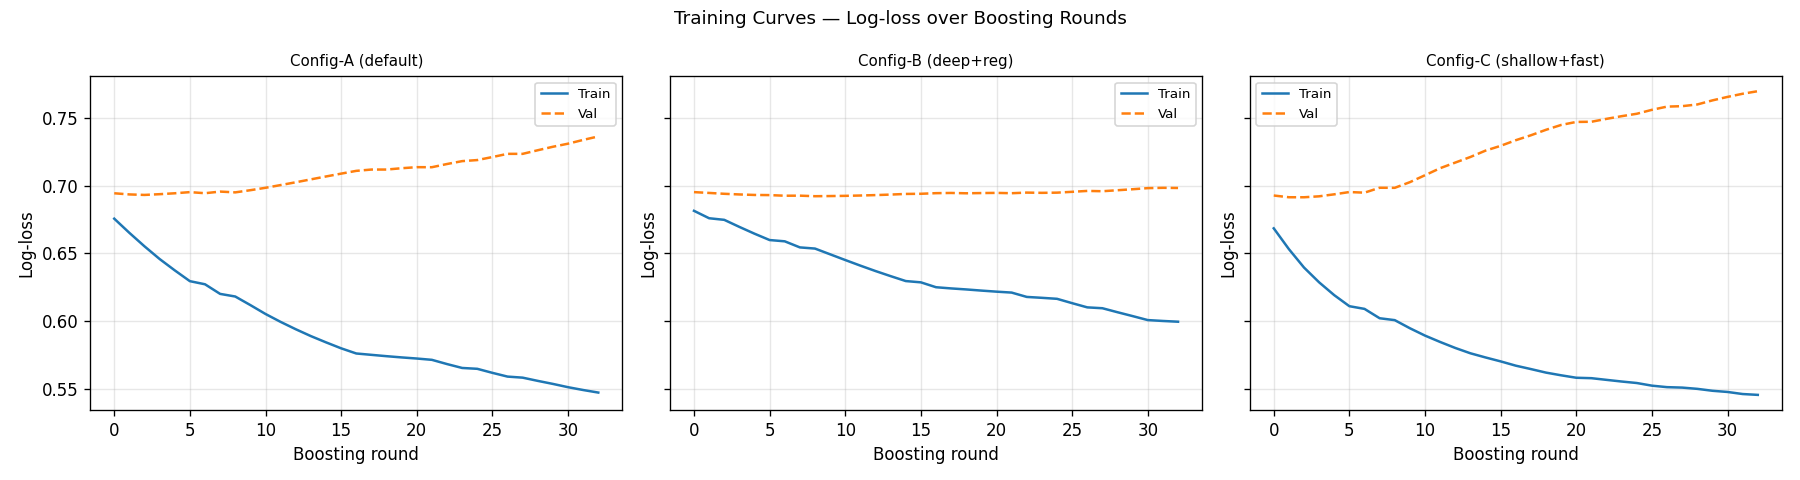
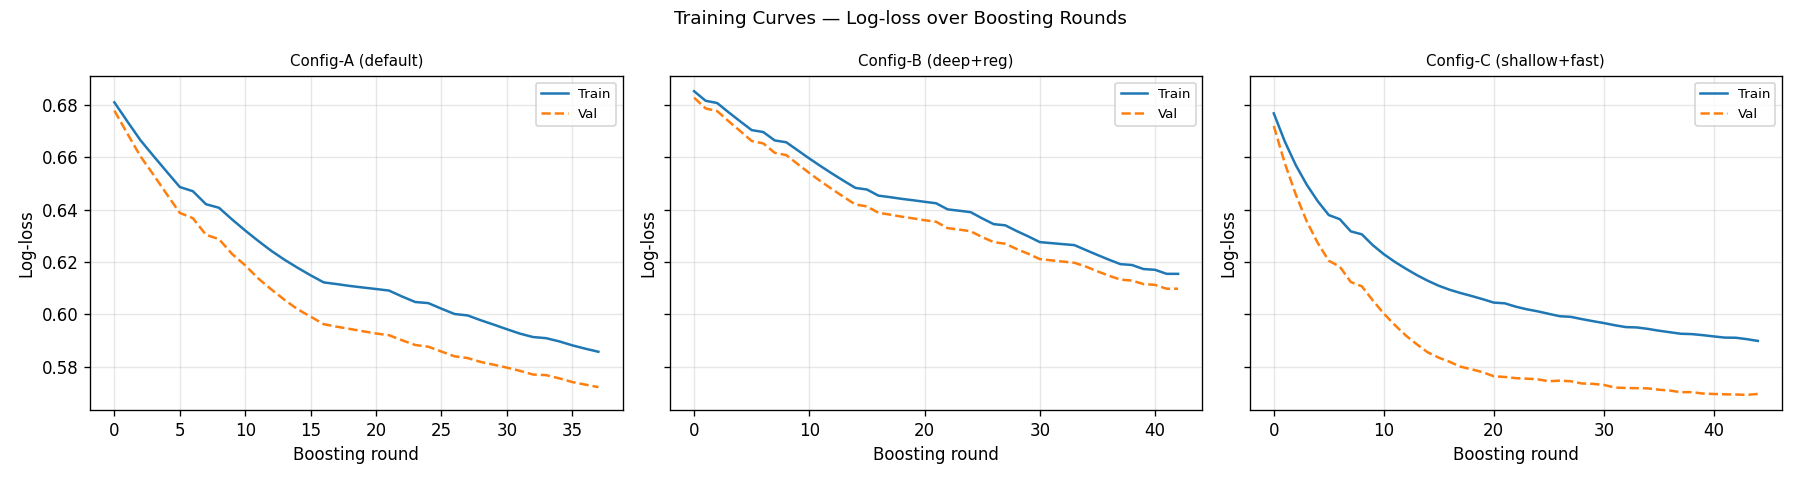
use Cross Validation instead

diff --git a/src/models.py b/src/models.py
@@ -3,6 +3,8 @@ import numpy as np
 import lightgbm as lgb
 import xgboost as xgb
 from sklearn.metrics import log_loss, roc_auc_score, brier_score_loss
+from sklearn.model_selection import GroupKFold
+from sklearn.preprocessing import StandardScaler
 from data_visualization import _plot_training_curves
 
 
@@ -96,6 +98,123 @@ def hyperparam_search(X_train, y_train, X_val, y_val, feature_cols):
     return best_model, results, best_name
 
 
+def hyperparam_search_cv(df_dev, feature_cols, n_splits=5, seed=42):
+    '''HYPERPARAMETER TUNING via GroupKFold CV — robust config selection.
+
+    Splits the dev set (train+val combined) into n_splits folds grouped by
+    market_id so no market appears in both fold-train and fold-val. Each
+    config is scored by mean val log-loss across folds. Selecting by CV
+    rather than a single val split reduces the risk of tuning to one
+    particular split and gives an uncertainty estimate (±std).
+
+    Also reports the mean train/val gap per config — a direct overfitting
+    diagnostic. Larger gap ⇒ the config is memorizing the training fold.
+
+    Args:
+        df_dev:       DataFrame with market_id, label, and feature_cols
+        feature_cols: list of feature column names
+        n_splits:     number of CV folds (default 5)
+        seed:         base_params seed
+
+    Returns:
+        best_name, cv_results
+    '''
+    base_params = {
+        "objective":    "binary",
+        "metric":       ["binary_logloss", "auc"],
+        "bagging_freq": 5,
+        "verbose":      -1,
+        "seed":         seed,
+    }
+
+    groups = df_dev["market_id"].values
+    y_all  = df_dev["label"].values
+    X_raw  = df_dev[feature_cols].fillna(-999).values
+
+    kf = GroupKFold(n_splits=n_splits)
+    splits = list(kf.split(X_raw, groups=groups))
+
+    cv_results       = {}
+    first_fold_evals = {}
+
+    for name, cfg in HYPERPARAM_CONFIGS.items():
+        params      = {**base_params, **cfg}
+        fold_val_ll = []
+        fold_tr_ll  = []
+        fold_auc    = []
+        fold_brier  = []
+        fold_gap    = []
+        fold_iters  = []
+
+        for fold_idx, (tr_idx, va_idx) in enumerate(splits):
+            # Per-fold scaler — fit on fold-train only (no CV leakage)
+            scaler = StandardScaler()
+            X_tr   = scaler.fit_transform(X_raw[tr_idx])
+            X_va   = scaler.transform(X_raw[va_idx])
+            y_tr   = y_all[tr_idx]
+            y_va   = y_all[va_idx]
+
+            dtrain = lgb.Dataset(X_tr, label=y_tr, feature_name=feature_cols)
+            dval   = lgb.Dataset(X_va, label=y_va, reference=dtrain,
+                                 feature_name=feature_cols)
+
+            evals_result = {}
+            model = lgb.train(
+                params, dtrain, num_boost_round=500,
+                valid_sets=[dtrain, dval], valid_names=["train", "val"],
+                callbacks=[
+                    lgb.early_stopping(stopping_rounds=30, verbose=False),
+                    lgb.log_evaluation(period=9999),
+                    lgb.record_evaluation(evals_result),
+                ],
+            )
+
+            best_iter = model.best_iteration
+            tr_loss   = evals_result["train"]["binary_logloss"][best_iter - 1]
+            va_loss   = evals_result["val"]["binary_logloss"][best_iter - 1]
+
+            probs = model.predict(X_va)
+            fold_val_ll.append(log_loss(y_va, probs))
+            fold_tr_ll.append(tr_loss)
+            fold_auc.append(roc_auc_score(y_va, probs))
+            fold_brier.append(brier_score_loss(y_va, probs))
+            fold_gap.append(va_loss - tr_loss)
+            fold_iters.append(best_iter)
+
+            if fold_idx == 0:
+                first_fold_evals[name] = evals_result
+
+        cv_results[name] = {
+            "mean_val_loss":   float(np.mean(fold_val_ll)),
+            "std_val_loss":    float(np.std(fold_val_ll)),
+            "mean_train_loss": float(np.mean(fold_tr_ll)),
+            "mean_gap":        float(np.mean(fold_gap)),
+            "mean_auc":        float(np.mean(fold_auc)),
+            "mean_brier":      float(np.mean(fold_brier)),
+            "mean_best_iter":  float(np.mean(fold_iters)),
+            "fold_val_losses": fold_val_ll,
+        }
+
+    best_name = min(cv_results, key=lambda k: cv_results[k]["mean_val_loss"])
+
+    print(f"\n── Hyperparameter Search Results "
+          f"({n_splits}-fold GroupKFold CV) ──")
+    print(f"  {'Config':<26} {'Val LL (±std)':>16} {'Train LL':>10} "
+          f"{'Gap':>7} {'AUC':>7} {'Iters':>6}")
+    print("  " + "─" * 76)
+    for name, m in cv_results.items():
+        marker = " ◀ best" if name == best_name else ""
+        ll_str = f"{m['mean_val_loss']:.4f}±{m['std_val_loss']:.4f}"
+        print(f"  {name:<26} {ll_str:>16} {m['mean_train_loss']:>10.4f} "
+              f"{m['mean_gap']:>7.4f} {m['mean_auc']:>7.4f} "
+              f"{m['mean_best_iter']:>6.0f}{marker}")
+    print("  (Gap = val − train log-loss at best iter; "
+          "larger ⇒ more overfitting)")
+
+    _plot_training_curves(first_fold_evals)
+    return best_name, cv_results
+
+
 def train_lgbm(X_train, y_train, X_val, y_val,
                feature_cols, params_override=None):
     '''TRAIN LIGHTGBM (final model on selected features).'''
@@ -119,15 +238,22 @@ def train_lgbm(X_train, y_train, X_val, y_val,
     dval   = lgb.Dataset(X_val,   label=y_val,   reference=dtrain,
                          feature_name=feature_cols)
 
+    evals_result = {}
     model = lgb.train(
         base_params, dtrain, num_boost_round=500,
         valid_sets=[dtrain, dval], valid_names=["train", "val"],
         callbacks=[
             lgb.early_stopping(stopping_rounds=30, verbose=False),
             lgb.log_evaluation(period=50),
+            lgb.record_evaluation(evals_result),
         ],
     )
-    print(f"  LightGBM best iteration: {model.best_iteration}")
+    best_iter = model.best_iteration
+    tr_loss   = evals_result["train"]["binary_logloss"][best_iter - 1]
+    va_loss   = evals_result["val"]["binary_logloss"][best_iter - 1]
+    print(f"  LightGBM best iteration: {best_iter}")
+    print(f"  LightGBM train LL: {tr_loss:.4f} | val LL: {va_loss:.4f} | "
+          f"gap: {va_loss - tr_loss:+.4f}")
     return model
 
 
@@ -154,7 +280,12 @@ def train_xgboost(X_train, y_train, X_val, y_val):
         evals_result=evals_result,
         verbose_eval=False,
     )
-    print(f"  XGBoost best iteration: {model.best_iteration}")
+    best_iter = model.best_iteration
+    tr_loss   = evals_result["train"]["logloss"][best_iter]
+    va_loss   = evals_result["val"]["logloss"][best_iter]
+    print(f"  XGBoost best iteration: {best_iter}")
+    print(f"  XGBoost train LL: {tr_loss:.4f} | val LL: {va_loss:.4f} | "
+          f"gap: {va_loss - tr_loss:+.4f}")
     return model
 
 

diff --git a/src/engine.py b/src/engine.py
@@ -40,11 +40,12 @@ Install:
 import warnings
 import matplotlib
 matplotlib.use("Agg")
+import pandas as pd
 from data_ingestion import load_raw
 from candle_pre_processing import (preprocess, flatten,
                                    drop_resolution_candle, three_way_split)
 from features import engineer_features, scale_features, select_features
-from models import (HYPERPARAM_CONFIGS, hyperparam_search,
+from models import (HYPERPARAM_CONFIGS, hyperparam_search_cv,
                     train_lgbm, train_xgboost, save_models)
 from evaluation import (evaluate_baselines, full_evaluate, backtest,
                         shap_analysis, ablation_study)
@@ -116,12 +117,21 @@ def train_pipeline(source):
     # 9. Baselines
     baseline_results = evaluate_baselines(df_train, df_val)
 
-    # 10. Hyperparameter search across 3 configs (saves training curves)
-    print("\n── Hyperparameter Search ───────────────────────")
-    probe_model, hp_results, best_name = hyperparam_search(
-        X_train, y_train, X_val, y_val, feature_cols)
+    # 10. Hyperparameter search via 5-fold GroupKFold CV on train+val
+    #     Grouped by market_id so no market straddles a fold boundary.
+    #     Robust to single-split noise; also reports per-config train/val gap
+    #     as a direct overfitting diagnostic.
+    print("\n── Hyperparameter Search (GroupKFold CV) ───────")
+    df_dev = pd.concat([df_train, df_val])
+    best_name, cv_results = hyperparam_search_cv(df_dev, feature_cols)
 
-    # 11. Feature selection on probe model
+    # 11. Train probe model on train/val with best CV config for feature
+    #     selection. Re-fits one model on the original split so we get gain
+    #     importance consistent with the final training data.
+    print("\n── Probe Model (best config on train/val) ──────")
+    probe_model = train_lgbm(
+        X_train, y_train, X_val, y_val, feature_cols,
+        params_override=HYPERPARAM_CONFIGS[best_name])
     selected_cols, importance = select_features(
         probe_model, feature_cols, X_val, y_val)
 
